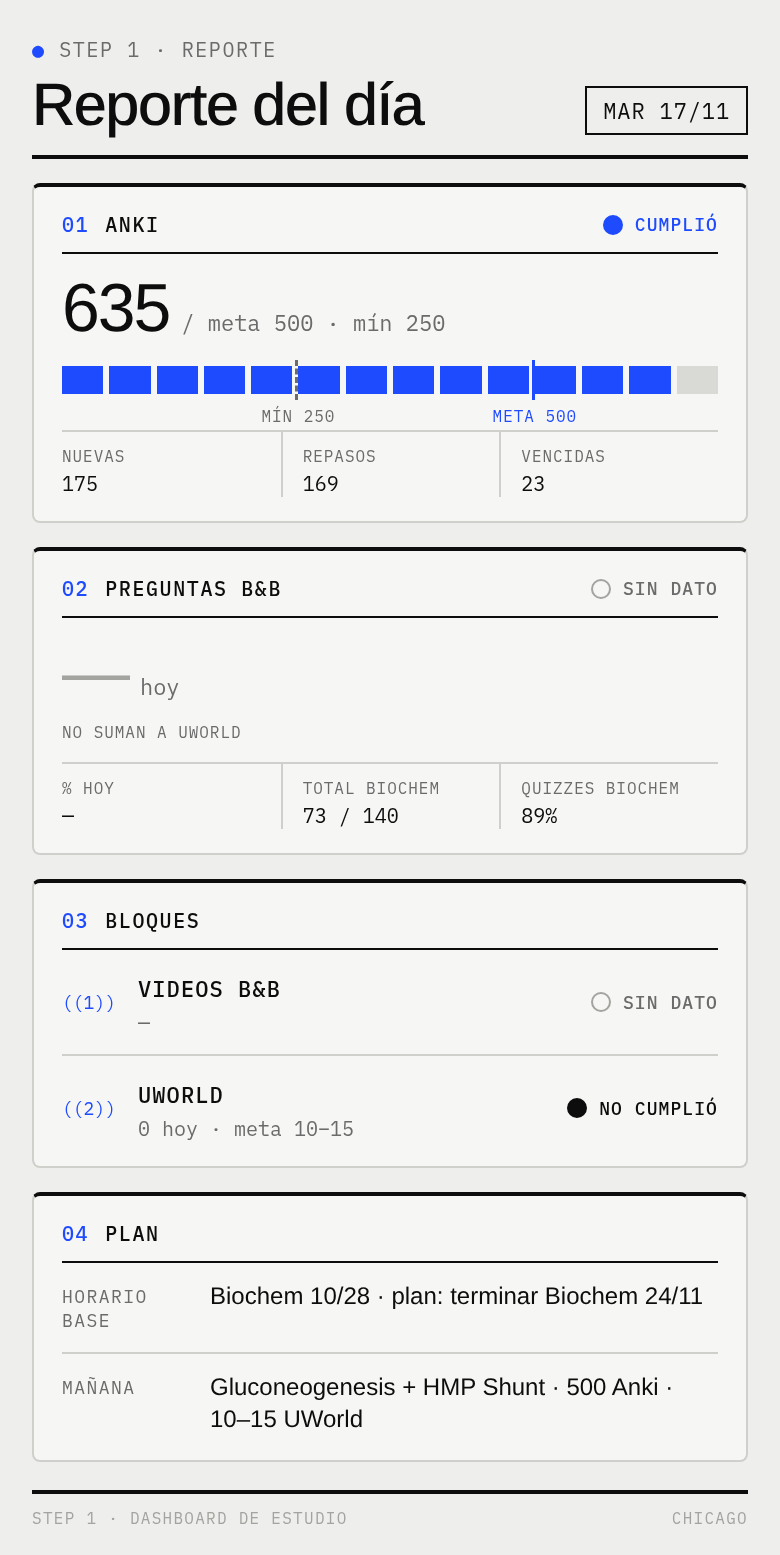
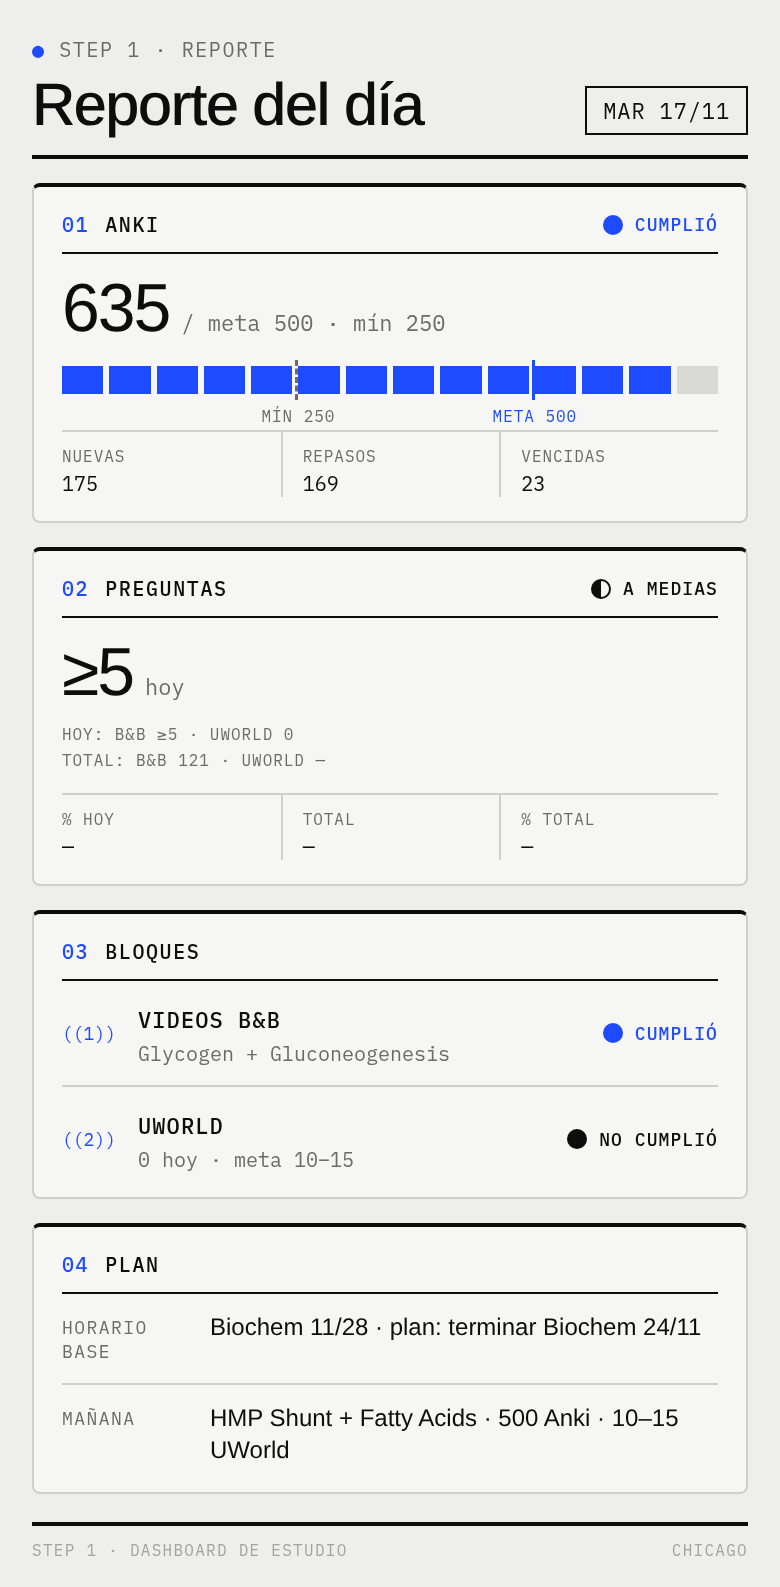
17/11 23:15: Biochem 11/28, preguntas combinadas, reporte v3

diff --git a/index.html b/index.html
@@ -6,7 +6,7 @@
   Estilo: capa "teenage engineering" al final del <style> (paneles con borde, numeración 00–10, marcadores ((n))).
   Regla: en pantalla NO se muestran notas de fuente/procedencia; solo el timestamp de #upd.
   Fuentes (solo para mantenimiento): Anki = AnkiConnect en el MacBook Air (última lectura 17/11 7:52 PM);
-  B&B = cuenta Boards & Beyond, lectura 17/11 20:00; UWorld = cuenta UWorld STEP 1 QBank, lectura 17/11 20:08.
+  B&B = cuenta Boards & Beyond, lectura 17/11 23:12; UWorld = cuenta UWorld STEP 1 QBank, lectura 17/11 20:08.
 
   · Timestamp ....................... <span id="upd">Actualizado DD/MM HH:MM</span>
   · Semana (círculos lun–dom) ....... automática con la fecha del teléfono; número bajo cada día = H[fecha]
@@ -30,7 +30,7 @@
         PERF.uw = {pct, usadas, total, tests_ronda, nota, sistemas:[{n, pct}], hist:[{t:"etiqueta test", pct}]}
         PERF.bb = {hechas, total, alcance, pct_quiz, nota, materias:[{n, hechas, de, pct}], hist:[{d:"mié", n}]}
         null → "—"; listas vacías → "—" (no se dibuja nada inventado)
-  · Reportes diarios (tap en semana) const REPORTS = {"AAAA-MM-DD": {fecha, anki, bbq, bloques, base, manana}} en el <script>
+  · Reportes diarios (tap en semana) const REPORTS = {"AAAA-MM-DD": {fecha, anki, preg, bloques, base, manana}} en el <script>
         (mismos campos que R de report_template.html). La rutina nocturna AGREGA una entrada por día.
         Día pasado sin entrada → panel "Sin reporte" con H[día] (o "—"). Días futuros no se pueden tocar.
         Copia PNG opcional en el sitio: reports/AAAA-MM-DD.png (el modal usa los datos embebidos, funciona offline).
@@ -286,7 +286,7 @@ details summary .lbl{margin-left:auto}
 .q-kv{display:grid;grid-template-columns:repeat(3,1fr);border-top:1px solid var(--line);font-family:var(--mono);font-size:10px}
 .q-kv div{padding:7px 0 0}.q-kv div+div{padding-left:10px;border-left:1px solid var(--line)}
 .q-kv small{display:block;color:var(--tx2);font-size:8px;letter-spacing:.06em;text-transform:uppercase;margin-bottom:2px}
-.q-sub{font-family:var(--mono);font-size:8px;letter-spacing:.06em;text-transform:uppercase;color:var(--tx2);margin:8px 0 10px}
+.q-sub{line-height:1.6;font-family:var(--mono);font-size:8px;letter-spacing:.06em;text-transform:uppercase;color:var(--tx2);margin:8px 0 10px}
 .q-row{display:grid;grid-template-columns:30px 1fr auto;gap:8px;align-items:center;padding:9px 0;border-bottom:1px solid var(--line)}
 .q-row:last-child{border-bottom:0;padding-bottom:0}
 .q-row .n{font-family:var(--mono);font-size:9px;color:var(--ac)}
@@ -313,7 +313,7 @@ details summary .lbl{margin-left:auto}
 
 <header class="top">
   <div><div class="brand"><span><i>●</i> step&nbsp;1</span><span>usmle</span><span>rev. 2026</span></div><h1>Inicio</h1></div>
-  <span id="upd">Actualizado 17/11 20:10</span>
+  <span id="upd">Actualizado 17/11 23:15</span>
 </header>
 
 <div id="week"></div>
@@ -335,11 +335,11 @@ details summary .lbl{margin-left:auto}
 
 <!-- RESUMEN: Biochem + materias -->
 <section class="card big" id="s-resumen">
-  <h2><span><em class="no">01</em>Biochem</span> <i>36%</i></h2>
+  <h2><span><em class="no">01</em>Biochem</span> <i>39%</i></h2>
   <div class="k">((1))</div>
-  <div class="v">10<small>/28</small></div>
+  <div class="v">11<small>/28</small></div>
   <div class="l">Temas Biochem</div>
-  <div class="d">Gluconeogenesis en curso</div>
+  <div class="d">Sigue: HMP Shunt</div>
   <div id="bioleds"></div>
   <div class="kv" style="margin-top:12px"><span>Materias B&amp;B</span><b>2 / 22</b></div>
   <div class="d">Genetics, Basic Pharmacology</div>
@@ -366,7 +366,7 @@ details summary .lbl{margin-left:auto}
     <div class="seg-part" data-blocks="1" data-c="#c4c4c0"></div>
   </div>
   <div class="row" data-blocks="7" data-c="var(--ac)"><span class="dot"></span><div><b>Anki</b><small>Mínimo 500 tarjetas, separando nuevas y repasos</small></div><span class="t">3 h 30</span></div>
-  <div class="row" data-blocks="5" data-c="var(--tx)"><span class="dot"></span><div><b>Videos B&amp;B</b><small>Gluconeogenesis (si no la terminas esta noche) + HMP Shunt (14:19); Fatty Acids (26:36) si hay tiempo</small></div><span class="t">2 h 30</span></div>
+  <div class="row" data-blocks="5" data-c="var(--tx)"><span class="dot"></span><div><b>Videos B&amp;B</b><small>HMP Shunt (14:19) + Fatty Acids (26:36)</small></div><span class="t">2 h 30</span></div>
   <div class="row" data-blocks="2" data-c="#8a8a87"><span class="dot"></span><div><b>UWorld + revisión</b><small>10 a 15 preguntas no usadas, modo tutor (separadas de las de B&amp;B)</small></div><span class="t">1 h</span></div>
   <div class="row" data-blocks="1" data-c="#c4c4c0"><span class="dot"></span><div><b>Preguntas B&amp;B</b><small>De los temas del día, separadas de UWorld</small></div><span class="t">30 min</span></div>
 </section>
@@ -375,9 +375,11 @@ details summary .lbl{margin-left:auto}
 <section class="card w2" id="s-bb">
   <h2><span><em class="no">04</em>Boards &amp; Beyond</span> <i>Step 1 · 5%</i></h2>
   <div class="tb" data-v="5" data-max="100" data-u="%"><div class="t"><span>Step 1 Preclinical · 22 materias · 499 videos</span><b></b></div><div class="bar"><i></i></div></div>
-  <div class="tb" data-v="10" data-max="28"><div class="t"><span>Biochemistry · lecciones</span><b></b></div><div class="bar"><i></i></div></div>
-  <div class="tb" data-v="73" data-max="140"><div class="t"><span>Preguntas B&amp;B · Biochemistry</span><b></b></div><div class="bar dk"><i></i></div></div>
-  <div class="tb" data-v="89" data-max="100" data-u="%"><div class="t"><span>Quizzes B&amp;B · desempeño Biochem</span><b></b></div><div class="bar dk"><i></i></div></div>
+  <div class="tb" data-v="11" data-max="28"><div class="t"><span>Biochemistry · lecciones</span><b></b></div><div class="bar"><i></i></div></div>
+  <div class="tb" data-v="78" data-max="140"><div class="t"><span>Preguntas B&amp;B · Biochemistry</span><b></b></div><div class="bar dk"><i></i></div></div>
+  <div class="tb" data-v="90" data-max="100" data-u="%"><div class="t"><span>Quizzes B&amp;B · desempeño Biochem</span><b></b></div><div class="bar dk"><i></i></div></div>
+  <div class="tb" data-v="121" data-max="3701"><div class="t"><span>Preguntas B&amp;B · total</span><b></b></div><div class="bar dk"><i></i></div></div>
+  <div class="tb" data-v="83.9" data-max="100" data-u="%"><div class="t"><span>Quizzes B&amp;B · desempeño total</span><b></b></div><div class="bar dk"><i></i></div></div>
   <p class="note">Cell Biology y el resto de materias: 0%.</p>
 </section>
 
@@ -429,9 +431,9 @@ details summary .lbl{margin-left:auto}
 <p class="note">Las fechas futuras son planificadas y se reajustan cada domingo.</p>
 </div></details>
 
-<details class="card" id="s-bio"><summary><em class="no">10</em>Biochemistry <span class="lbl">10 / 28</span></summary><div class="body">
+<details class="card" id="s-bio"><summary><em class="no">10</em>Biochemistry <span class="lbl">11 / 28</span></summary><div class="body">
 <ul class="ck" id="bio"></ul>
-<p class="note">10 de 28 lecciones completadas (36%). Gluconeogenesis: en curso hoy (declarado por ti; aún no figura como completada).</p>
+<p class="note">11 de 28 lecciones completadas (39%). Siguiente: HMP Shunt.</p>
 </div></details>
 
 <details class="card" id="s-mat"><summary><em class="no">11</em>Progreso por materia <span class="lbl">2 / 22</span></summary><div class="body">
@@ -455,8 +457,8 @@ details summary .lbl{margin-left:auto}
 </div>
 <script>
 const plan=[
-  ["Mar 17/11","Glycogen Metabolism (completado en B&amp;B). Gluconeogenesis en curso hoy.","curso"],
-  ["Mié 18/11","HMP Shunt / (Gluconeogenesis si falta) / Fatty Acids"],
+  ["Mar 17/11","Glycogen Metabolism + Gluconeogenesis (completados en B&amp;B)",1],
+  ["Mié 18/11","HMP Shunt + Fatty Acids"],
   ["Jue 19/11","Fatty Acids, Ketone Bodies, Ethanol Metabolism"],
   ["Vie 20/11","Exercise & Starvation, Inborn Errors of Metabolism, Amino Acids"],
   ["Sáb 21/11","Examen UWorld 40 preguntas Timed + revisión, 500 Anki"],
@@ -485,7 +487,7 @@ const bio=[
   ["Pyruvate Dehydrogenase",1,"Completado"],
   ["TCA Cycle",1,"Completado"],
   ["Electron Transport Chain",1,"Completado"],
-  ["Gluconeogenesis","curso","en curso hoy"],
+  ["Gluconeogenesis",1,"Completado"],
   ["HMP Shunt",0,"18/11"],
   ["Fatty Acids",0,"18/11 si hay tiempo"],
   ["Ketone Bodies",0,"19/11"],
@@ -516,7 +518,7 @@ document.getElementById("bioleds").innerHTML=bio.map(b=>`<i class="${b[1]===1?'o
 const M=[
   ["Genetics","c","100% · 12 videos"],
   ["Basic Pharmacology","c","100% · 5 videos"],
-  ["Biochemistry","p","36% · 10/28 lecciones"],
+  ["Biochemistry","p","39% · 11/28 lecciones"],
   ["Cell Biology","n","0%"],
   ["Pathology (General)","n","0%"],
   ["Immunology","n","0%"],
@@ -588,9 +590,9 @@ const PERF={
   uw:{pct:null, usadas:40, total:3667, tests_ronda:0,
       nota:"Sin desempeño real aún: el único test (31/10) quedó abandonado. Ronda actual empieza 18/11.",
       sistemas:[], hist:[]},
-  bb:{hechas:73, total:140, alcance:"Biochem", pct_quiz:89,
-      nota:"Datos de Biochemistry. Cell Biology y el resto de materias: 0%.",
-      materias:[{n:"Biochemistry", hechas:73, de:140, pct:89}], hist:[]}
+  bb:{hechas:121, total:3701, alcance:"Total B&B", pct_quiz:83.9,
+      nota:"Biochemistry: 78/140 preguntas, quiz 90%. Cell Biology y el resto de materias: 0%.",
+      materias:[{n:"Biochemistry", hechas:78, de:140, pct:90}], hist:[]}
 };
 (function(){const V=x=>(x===null||x===undefined||x==="")?"—":x,P=x=>(x===null||x===undefined)?"—":x+"%";
 const leds=(arr,lab,val,mx)=>{if(!arr||!arr.length)return '<div class="pf-empty">—</div>';const S=10,m=mx||Math.max(1,...arr.map(val));return `<div class="pf-h">${arr.slice(-10).map(d=>{const on=val(d)?Math.max(1,Math.round(val(d)/m*S)):0;let c="";for(let i=0;i<S;i++)c+=`<i class="${i<on?'on':''}"></i>`;return `<div><div class="c">${c}</div><span>${V(lab(d))}</span></div>`}).join("")}</div>`};
@@ -608,36 +610,46 @@ document.getElementById("perf-bb").innerHTML=`<h2><span>B&amp;B performance</spa
 ${b.nota?`<p class="note">${b.nota}</p>`:""}`})();
 
 /* REPORTES DIARIOS (tap en un día de la semana). Misma estructura que R de report_template.html.
-   La rutina nocturna agrega una entrada por día: REPORTS["AAAA-MM-DD"] = {fecha, anki, bbq, bloques, base, manana} */
+   La rutina nocturna agrega una entrada por día: REPORTS["AAAA-MM-DD"] = {fecha, anki, preg, bloques, base, manana}
+   preg = {hoy, pct_hoy, total, pct_total, bb:{hoy,pct_hoy,total,pct_total}, uw:{...}, hist, estado}; combinados null → se calculan de bb + uw; hoy_min:true → muestra "≥" */
 const REPORTS={
   "2026-11-17":{
     fecha:"mar 17/11",
     anki:{hechas:635, meta:500, min:250, nuevas:175, repasos:169, vencidas:23, estado:"ok"},
-    bbq:{hoy:null, pct_hoy:null, total:73, total_de:140, total_label:"Total Biochem", pct_total:89, pct_label:"Quizzes Biochem", hist:null, estado:"sd"},
+    preg:{hoy:null, pct_hoy:null, total:null, pct_total:null,
+          bb:{hoy:5, hoy_min:true, pct_hoy:null, total:121, pct_total:83.9},
+          uw:{hoy:0, pct_hoy:null, total:null, pct_total:null},
+          hist:null, estado:"medio"},
     bloques:[
-      {n:"Videos B&B", valor:null, detalle:null, estado:"sd"},
+      {n:"Videos B&B", valor:"Glycogen + Gluconeogenesis", detalle:null, estado:"ok"},
       {n:"UWorld",     valor:"0 hoy", detalle:"meta 10–15", estado:"no"}
     ],
-    base:"Biochem 10/28 · plan: terminar Biochem 24/11",
-    manana:"Gluconeogenesis + HMP Shunt · 500 Anki · 10–15 UWorld"
+    base:"Biochem 11/28 · plan: terminar Biochem 24/11",
+    manana:"HMP Shunt + Fatty Acids · 500 Anki · 10–15 UWorld"
   }
 };
+function pregCalc(p){p=p||{};const P=[p.bb||{},p.uw||{}],num=x=>typeof x==="number"&&!isNaN(x);
+ const sum=k=>P.every(o=>num(o[k]))?P.reduce((a,o)=>a+o[k],0):null;
+ const wp=(k,pk)=>{if(!P.every(o=>num(o[k])))return null;const t=P.reduce((a,o)=>a+o[k],0);if(!t)return null;
+   if(!P.every(o=>o[k]===0||num(o[pk])))return null;return Math.round(P.reduce((a,o)=>a+(o[k]?o[k]*o[pk]:0),0)/t)};
+ const pick=(x,y)=>num(x)?x:y;
+ return {hm:!!(p.hoy_min||P.some(o=>o.hoy_min)),hoy:pick(p.hoy,sum("hoy")),pct_hoy:pick(p.pct_hoy,wp("hoy","pct_hoy")),total:pick(p.total,sum("total")),pct_total:pick(p.pct_total,wp("total","pct_total")),bb:P[0],uw:P[1]}}
 function repHTML(R){
  const L={ok:"Cumplió",medio:"A medias",no:"No cumplió",sd:"Sin dato"},v=x=>(x===null||x===undefined||x==="")?"—":x,
   st=e=>`<span class="q-st ${L[e]?e:"sd"}">${L[e]||L.sd}</span>`,pc=x=>(x===null||x===undefined||x==="")?"—":x+"%";
  const a=R.anki||{meta:500,min:250},U=50,SEG=Math.max(14,Math.ceil((a.hechas||0)/U)),on=a.hechas?Math.round(a.hechas/U):0;
  let leds="";for(let i=0;i<SEG;i++)leds+=`<i class="${i<on?'on'+(a.hechas>=a.meta?' ac':''):''}"></i>`;
  const pos=x=>{const k=x/U;return `calc(${k/SEG*100}% - ${k/SEG*(SEG-1)*3}px + ${k*3-1.5}px)`};
- const q=R.bbq||{},tot=(q.total===null||q.total===undefined)?"—":q.total+(q.total_de?" / "+q.total_de:"");
+ const q=R.preg||{},c=pregCalc(q);
  return `<div class="q-top"><div><div class="brand"><span><i>●</i> step 1 · reporte</span></div><h3>Reporte del día</h3></div><div class="q-date">${v(R.fecha)}</div></div>
  <div class="q-c"><div class="q-h"><span><em>01</em>Anki</span>${st(a.estado)}</div>
   <div class="q-big"><b>${v(a.hechas)}</b><span>/ meta ${a.meta} · mín ${a.min}</span></div>
   <div class="q-leds">${leds}<div class="q-mk m" style="left:${pos(a.min)}"><span>MÍN ${a.min}</span></div><div class="q-mk g" style="left:${pos(a.meta)}"><span>META ${a.meta}</span></div></div>
   <div class="q-kv"><div><small>Nuevas</small>${v(a.nuevas)}</div><div><small>Repasos</small>${v(a.repasos)}</div><div><small>Vencidas</small>${v(a.vencidas)}</div></div></div>
- <div class="q-c"><div class="q-h"><span><em>02</em>Preguntas B&amp;B</span>${st(q.estado)}</div>
-  <div class="q-big"><b${v(q.hoy)==="—"?' style="color:var(--tx3)"':""}>${v(q.hoy)}</b><span>hoy</span></div>
-  <div class="q-sub">No suman a UWorld</div>
-  <div class="q-kv"><div><small>% hoy</small>${pc(q.pct_hoy)}</div><div><small>${v(q.total_label)}</small>${tot}</div><div><small>${v(q.pct_label)}</small>${pc(q.pct_total)}</div></div></div>
+ <div class="q-c"><div class="q-h"><span><em>02</em>Preguntas</span>${st(q.estado)}</div>
+  <div class="q-big"><b${v(c.hoy)==="—"?' style="color:var(--tx3)"':""}>${c.hm&&c.hoy!=null?"≥":""}${v(c.hoy)}</b><span>hoy</span></div>
+  <div class="q-sub">Hoy: B&amp;B ${c.bb.hoy_min&&c.bb.hoy!=null?"≥":""}${v(c.bb.hoy)} · UWorld ${c.uw.hoy_min&&c.uw.hoy!=null?"≥":""}${v(c.uw.hoy)}<br>Total: B&amp;B ${v(c.bb.total)} · UWorld ${v(c.uw.total)}</div>
+  <div class="q-kv"><div><small>% hoy</small>${pc(c.pct_hoy)}</div><div><small>Total</small>${v(c.total)}</div><div><small>% total</small>${pc(c.pct_total)}</div></div></div>
  <div class="q-c"><div class="q-h"><span><em>03</em>Bloques</span><span></span></div>
   ${(R.bloques||[]).map((b,i)=>`<div class="q-row"><span class="n">((${i+1}))</span><div><b>${b.n}</b><small>${v(b.valor)}${b.detalle?" · "+b.detalle:""}</small></div>${st(b.estado)}</div>`).join("")}</div>
  <div class="q-c"><div class="q-h"><span><em>04</em>Plan</span><span></span></div>
